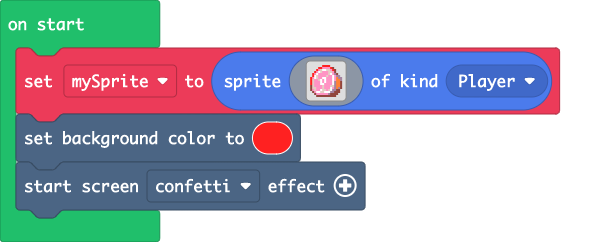
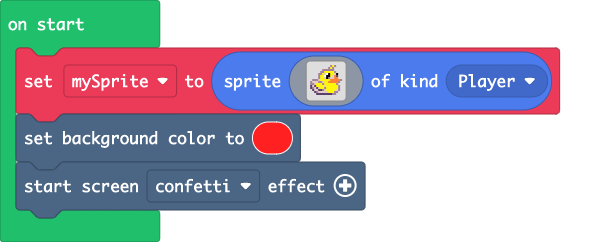
Update main.blocks, main.ts

Changed region(s): [[0.4967, 0.2603, 0.5588, 0.405]]

diff --git a/main.ts b/main.ts
@@ -1,20 +1,20 @@
 let mySprite = sprites.create(img`
-    . . . . . . 2 2 2 2 . . . . . . 
-    . . . . 2 2 3 3 3 3 2 e . . . . 
-    . . . 2 3 d 1 1 d d 3 2 e . . . 
-    . . 2 3 1 d 3 3 3 d d 3 e . . . 
-    . 2 3 1 3 3 3 3 3 d 1 3 b e . . 
-    . 2 1 d 3 3 3 3 d 3 3 1 3 b b . 
-    2 3 1 d 3 3 1 1 3 3 3 1 3 4 b b 
-    2 d 3 3 d 1 3 1 3 3 3 1 3 4 4 b 
-    2 d 3 3 3 1 3 1 3 3 3 1 b 4 4 e 
-    2 d 3 3 3 1 1 3 3 3 3 1 b 4 4 e 
-    e d 3 3 3 3 d 3 3 3 d d b 4 4 e 
-    e d d 3 3 3 d 3 3 3 1 3 b 4 b e 
-    e 3 d 3 3 1 d d 3 d 1 b b e e . 
-    . e 3 1 1 d d 1 1 1 b b e e e . 
-    . . e 3 3 3 3 3 3 b e e e e . . 
-    . . . e e e e e e e e e e . . . 
+    . . . . . . . . . . b 5 b . . . 
+    . . . . . . . . . b 5 b . . . . 
+    . . . . . . b b b b b b . . . . 
+    . . . . . b b 5 5 5 5 5 b . . . 
+    . . . . b b 5 d 1 f 5 5 d f . . 
+    . . . . b 5 5 1 f f 5 d 4 c . . 
+    . . . . b 5 5 d f b d d 4 4 . . 
+    . b b b d 5 5 5 5 5 4 4 4 4 4 b 
+    b d d d b b d 5 5 4 4 4 4 4 b . 
+    b b d 5 5 5 b 5 5 5 5 5 5 b . . 
+    c d c 5 5 5 5 d 5 5 5 5 5 5 b . 
+    c b d c d 5 5 b 5 5 5 5 5 5 b . 
+    . c d d c c b d 5 5 5 5 5 d b . 
+    . . c b d d d d d 5 5 5 b b . . 
+    . . . c c c c c c c c b b . . . 
+    . . . . . . . . . . . . . . . . 
     `, SpriteKind.Player)
 scene.setBackgroundColor(2)
 effects.confetti.startScreenEffect()
